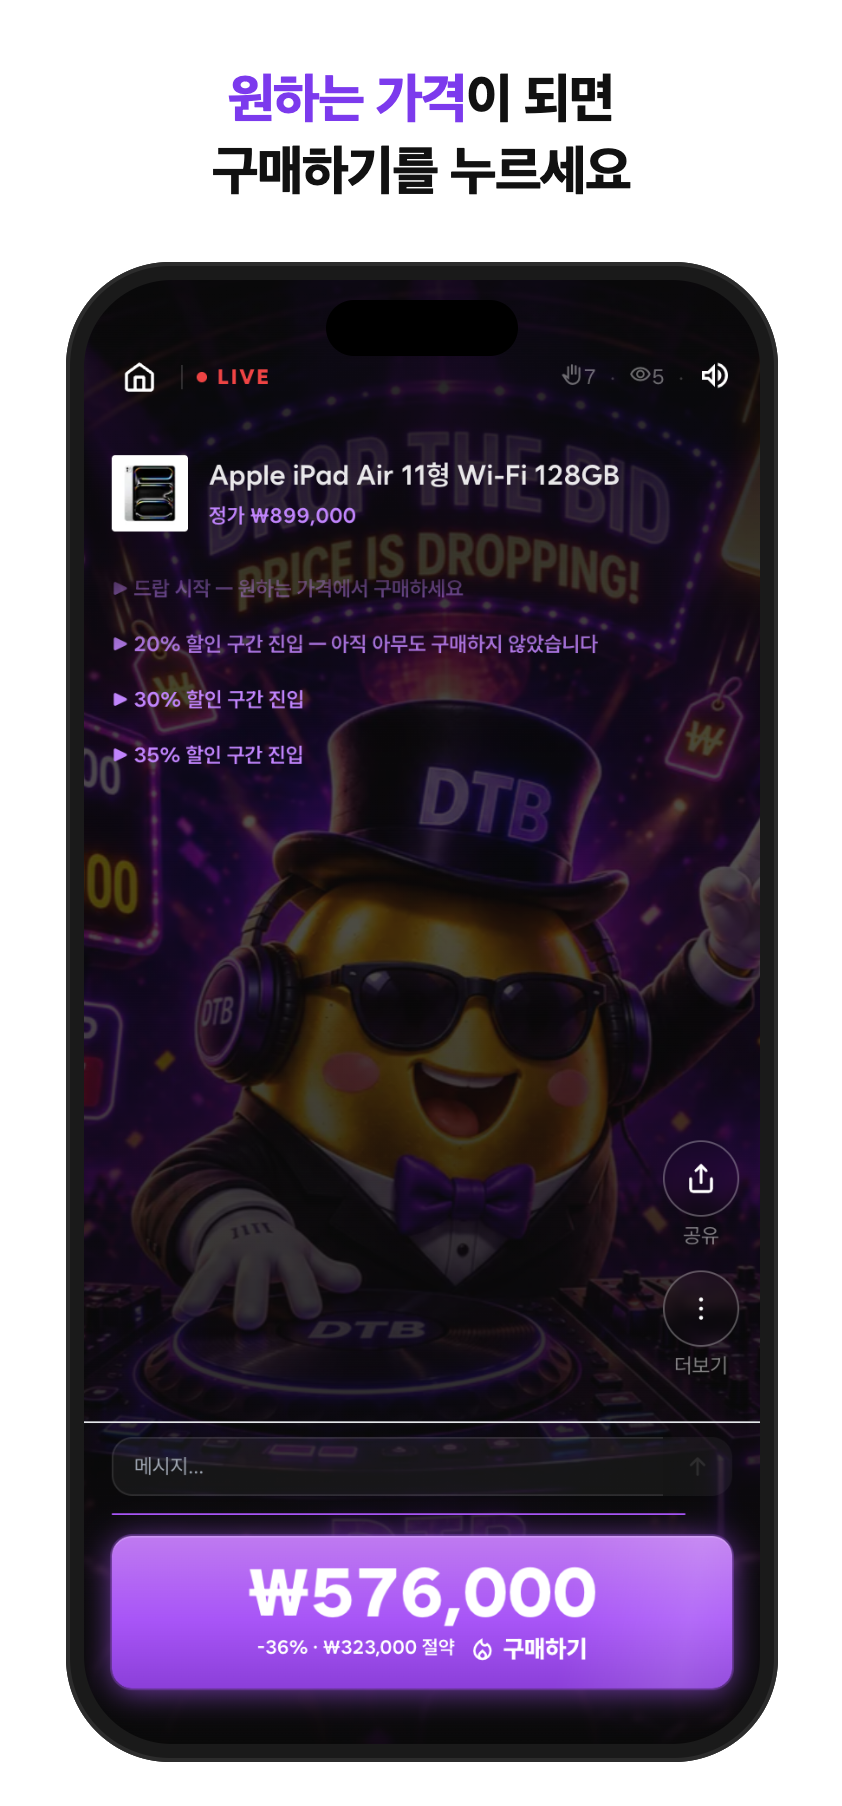
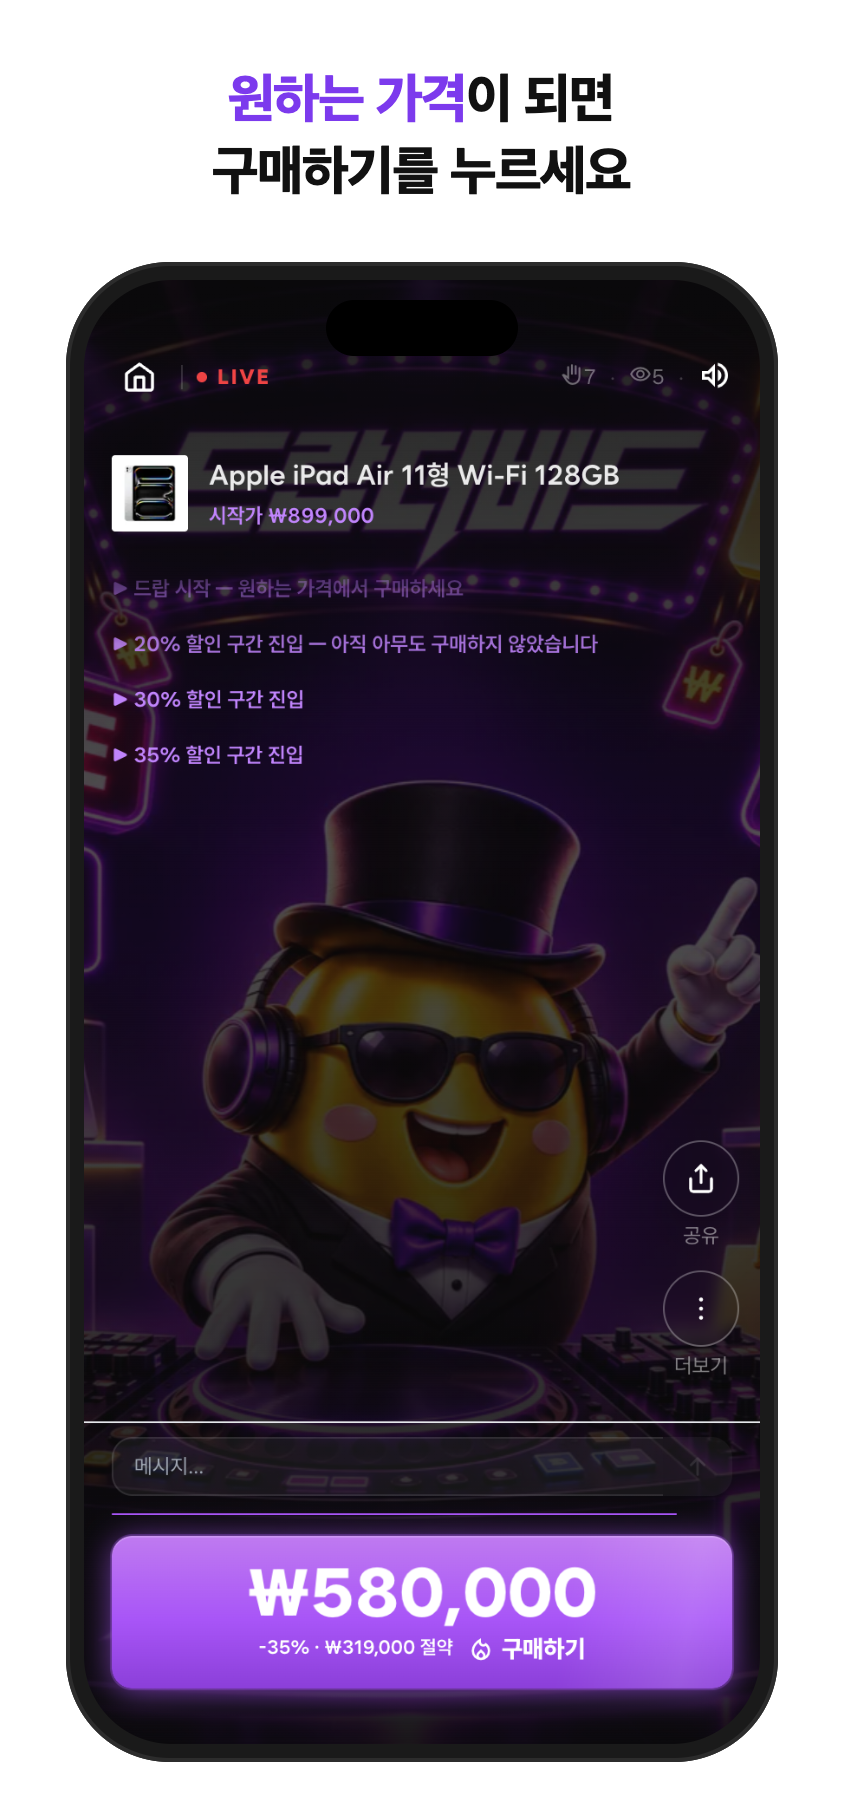
Home art: finalmainimage.png replaces main.png; new OG image; slides recaptured
The old art had a ₩899,000 -> ₩405,000 price board, a TIME LEFT countdown
and a club crowd. New art (provided by the owner) shows SALE / % tags, a
falling-price chart, product shelves and shopping bags. og-image-main.jpg is
the same art centred on a blurred 1200x630 background (new filename so
share caches refresh). 이용방법 slides recaptured on the new backdrop.

diff --git a/tests/pgReadiness.test.ts b/tests/pgReadiness.test.ts
@@ -89,12 +89,13 @@ describe("SiteFooter", () => {
 describe("auction-free imagery", () => {
   it("home hero, OG image and stage backdrop point at the new art; old auction art is gone", () => {
     const read = (p: string) => fs.readFileSync(path.join(ROOT, p), "utf8");
-    expect(read("app/page.tsx")).toContain('src="/main.png"');
-    expect(read("app/components/StageBackdrop.tsx")).toContain('src="/main.png"');
-    for (const f of ["app/layout.tsx", "app/join/layout.tsx"]) expect(read(f)).toContain("/og-image-drop.jpg");
-    for (const p of ["public/main.png", "public/og-image-drop.jpg"]) expect(fs.existsSync(path.join(ROOT, p))).toBe(true);
-    for (const p of ["public/newmainimage.png", "public/gamepagevideo.mp4", "public/og-image.jpg"]) expect(fs.existsSync(path.join(ROOT, p))).toBe(false);
-    for (const f of consumerSourceFiles(path.join(ROOT, "app"))) expect(read(path.relative(ROOT, f))).not.toMatch(/newmainimage|gamepagevideo|\/og-image\.jpg/);
+    expect(read("app/page.tsx")).toContain('src="/finalmainimage.png"');
+    expect(read("app/components/StageBackdrop.tsx")).toContain('src="/finalmainimage.png"');
+    for (const f of ["app/layout.tsx", "app/join/layout.tsx"]) expect(read(f)).toContain("/og-image-main.jpg");
+    for (const p of ["public/finalmainimage.png", "public/og-image-main.jpg"]) expect(fs.existsSync(path.join(ROOT, p))).toBe(true);
+    // main.png / og-image-drop.jpg had a ₩899,000 -> ₩405,000 board, a TIME LEFT countdown and a club crowd.
+    for (const p of ["public/main.png", "public/og-image-drop.jpg", "public/newmainimage.png", "public/gamepagevideo.mp4", "public/og-image.jpg"]) expect(fs.existsSync(path.join(ROOT, p))).toBe(false);
+    for (const f of consumerSourceFiles(path.join(ROOT, "app"))) expect(read(path.relative(ROOT, f))).not.toMatch(/newmainimage|gamepagevideo|\/og-image\.jpg|\/main\.png|og-image-drop/);
   });
 });
 

diff --git a/app/layout.tsx b/app/layout.tsx
@@ -37,13 +37,13 @@ export const metadata: Metadata = {
     url: "/",
     siteName: SITE_TITLE,
     type: "website",
-    images: [{ url: "/og-image-drop.jpg", width: 1200, height: 630, alt: SITE_TITLE }],
+    images: [{ url: "/og-image-main.jpg", width: 1200, height: 630, alt: SITE_TITLE }],
   },
   twitter: {
     card: "summary_large_image",
     title: SITE_TITLE,
     description: SITE_DESCRIPTION,
-    images: ["/og-image-drop.jpg"],
+    images: ["/og-image-main.jpg"],
   },
 };
 

diff --git a/app/join/layout.tsx b/app/join/layout.tsx
@@ -15,13 +15,13 @@ export const metadata: Metadata = {
     url: "/join",
     siteName: "드랍더비드",
     type: "website",
-    images: [{ url: "/og-image-drop.jpg", width: 1200, height: 630, alt: TITLE }],
+    images: [{ url: "/og-image-main.jpg", width: 1200, height: 630, alt: TITLE }],
   },
   twitter: {
     card: "summary_large_image",
     title: TITLE,
     description: DESCRIPTION,
-    images: ["/og-image-drop.jpg"],
+    images: ["/og-image-main.jpg"],
   },
 };
 

diff --git a/app/components/StageBackdrop.tsx b/app/components/StageBackdrop.tsx
@@ -7,7 +7,7 @@ import type { CSSProperties } from "react";
 export default function StageBackdrop({ opacity, objectPosition = "center top" }: { opacity?: number; objectPosition?: CSSProperties["objectPosition"] }) {
   return (
     <Image
-      src="/main.png"
+      src="/finalmainimage.png"
       alt=""
       aria-hidden
       fill

diff --git a/app/page.tsx b/app/page.tsx
@@ -53,7 +53,7 @@ export default function HomePage() {
       <div className="relative flex-shrink-0" style={{ height: "52vh" }}>
 
         <Image
-          src="/main.png"
+          src="/finalmainimage.png"
           alt="Drop The Bid"
           fill
           priority
